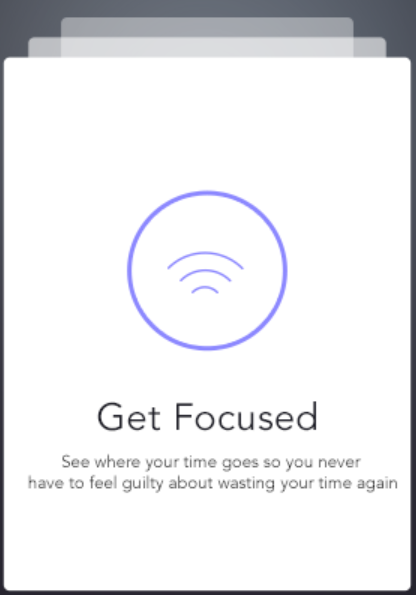
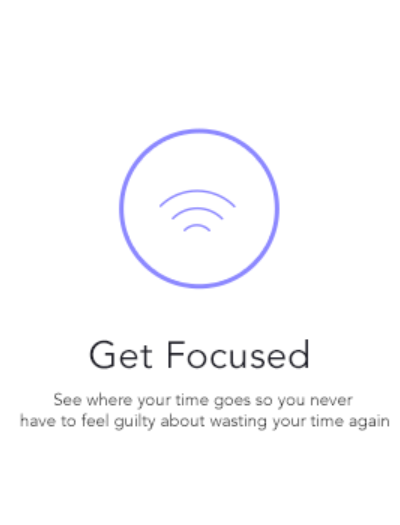
fixing positions and pictures

diff --git a/get2it/src/Components/OnBoarding/style.css b/get2it/src/Components/OnBoarding/style.css
@@ -1,15 +1,17 @@
 .logoImg {
-    width:35px;
+    width:30px;
     color:white;
 }
 #arrow {
     color: aliceblue;
     margin-top: 15px;
+    height: 26px;
 }
 .signUp {
     margin-top: 8px;
     text-align: center;
     color: white;
+    font-size: 20px;
 }
 .custom-tag {
     max-width: 100%;
@@ -18,11 +20,14 @@
 }
 .carousel {
     margin: 101px 54px 40px 54px;
-    width: 250px;
+    width: 265px;
     height: 300px;
+    
 }
 .imgSlide {
     height: 350px;
+    border-radius: 8px;
+    margin-left: -1px;
 }
 .indecator {
     margin-bottom: -90px;
@@ -34,4 +39,8 @@
     background-color: transparent;
     border-radius: 25px;
     border-color: white;
+}
+div.carousel.slide {
+    margin-top:40px;
+    margin-left:48px;
 }
